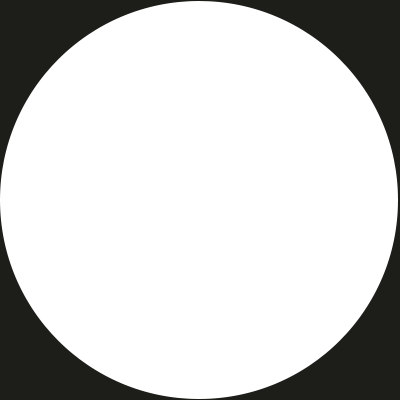
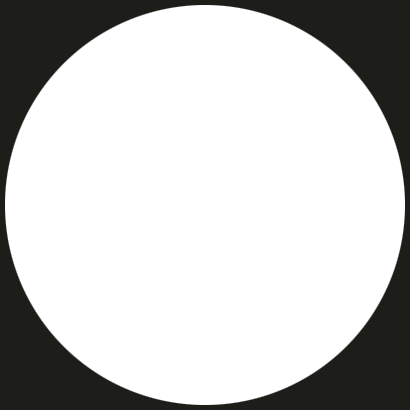
Upgrade to Ruby 2.1.5 and fix map on home page.

diff --git a/app/assets/stylesheets/home.css.scss b/app/assets/stylesheets/home.css.scss
@@ -49,7 +49,7 @@
 body.home.index {
   background-color: $black;
   color: $white;
-  
+
   h1, h2, h3, h4, h5, h6, p { color: $white; }
 
   #site-header { display: none; }
@@ -61,7 +61,7 @@ body.home.index {
       max-width: 150%;
       margin: 0 -25%;
       width: auto;
-      
+
       @include media($tablet) {
         max-width: 100%;
         margin: 0;
@@ -71,7 +71,7 @@ body.home.index {
       background-image: image-url('home-hero-chevron.png');
     }
   }
-  
+
   .row h4 {
     text-align: center;
     border-bottom: 1px solid $white;
@@ -105,35 +105,37 @@ body.home.index {
         text-align: right;
       }
     }
-    
+
     #home-map-wrap {
       position: relative;
-      background: $yellow;
+      background: $black;
       height: 0;
       margin: 0;
       padding: 0;
       padding-bottom: 100%;
       overflow: hidden;
-      
+
       @include media($tablet) {
         @include span-columns(2);
         margin-top: -($baseline / 2);
         padding-bottom: 14.05789%;
       }
-      
-      img {
+
+      & > img {
         z-index: 1;
         width: 100%;
-        height: 101%;
+        height: 100%;
         position: absolute;
-        top: 0; right: 0; left: 0;
+        top: 0; right: 0; left: 0; bottom: 0;
         margin: 0;
         padding: 0;
       }
-      
+
       #home-map-object {
         position: absolute;
-        top: 0; right: 0; bottom: 0; left: 0;
+        max-width: 100%;
+        overflow: hidden;
+        top: 2px; right: 2px; bottom: 2px; left: 2px;
 
         .leaflet-control-container, .leaflet-objects-pane {
           position: absolute;
@@ -146,21 +148,22 @@ body.home.index {
         }
 
         img {
+          position: absolute;
           max-width: none;
           min-width: 0px;
         }
       }
     }
-    
+
     #home-current-location {
       @include media($tablet) {
         @include span-columns(4);
       }
     }
   }
-  
+
   #quicktrip {
-    h3 a { 
+    h3 a {
       color: $white;
       &:hover, &:active {
         color: $yellow;
@@ -182,7 +185,7 @@ body.home.index {
     @include span-columns(6);
     @include shift(3);
   }
-  
+
 }
 
 br.responsive {
@@ -206,7 +209,7 @@ p#home-map-attribution {
     border-left: none;
     text-align: center;
     h2 { font-weight: normal; }
-    
+
     @include media($tablet) {
       @include span-columns(8);
       @include shift(2);
